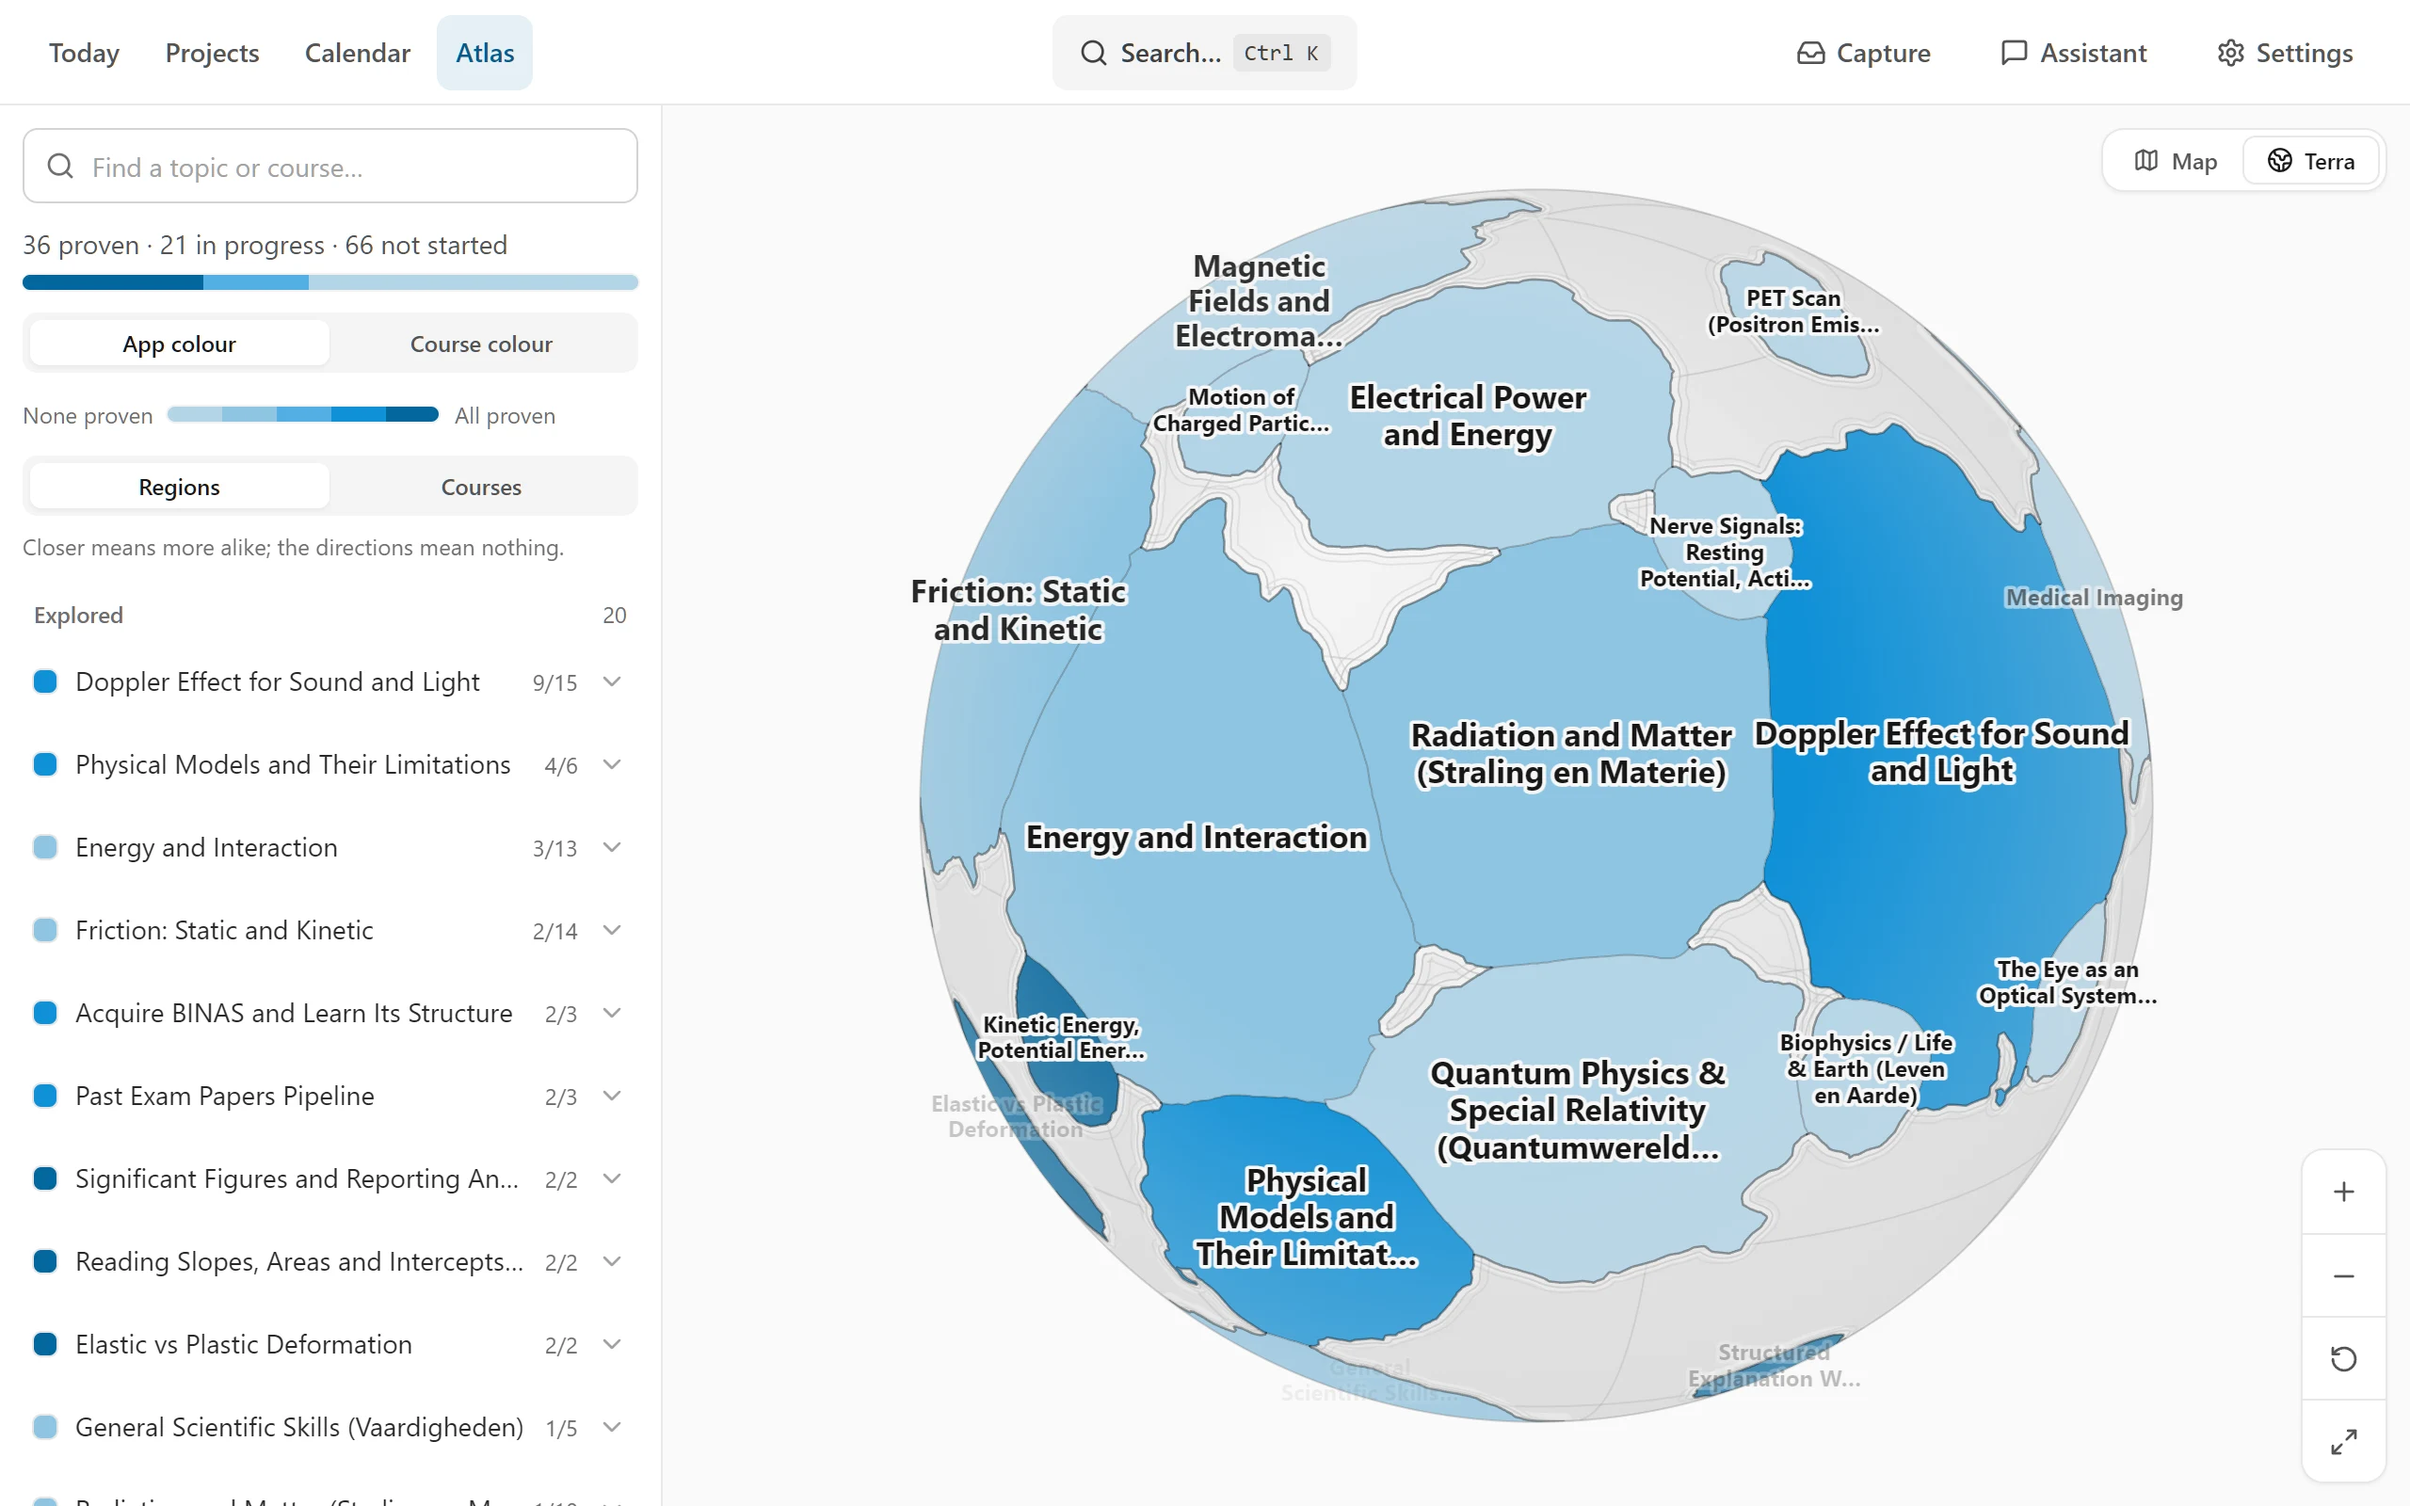
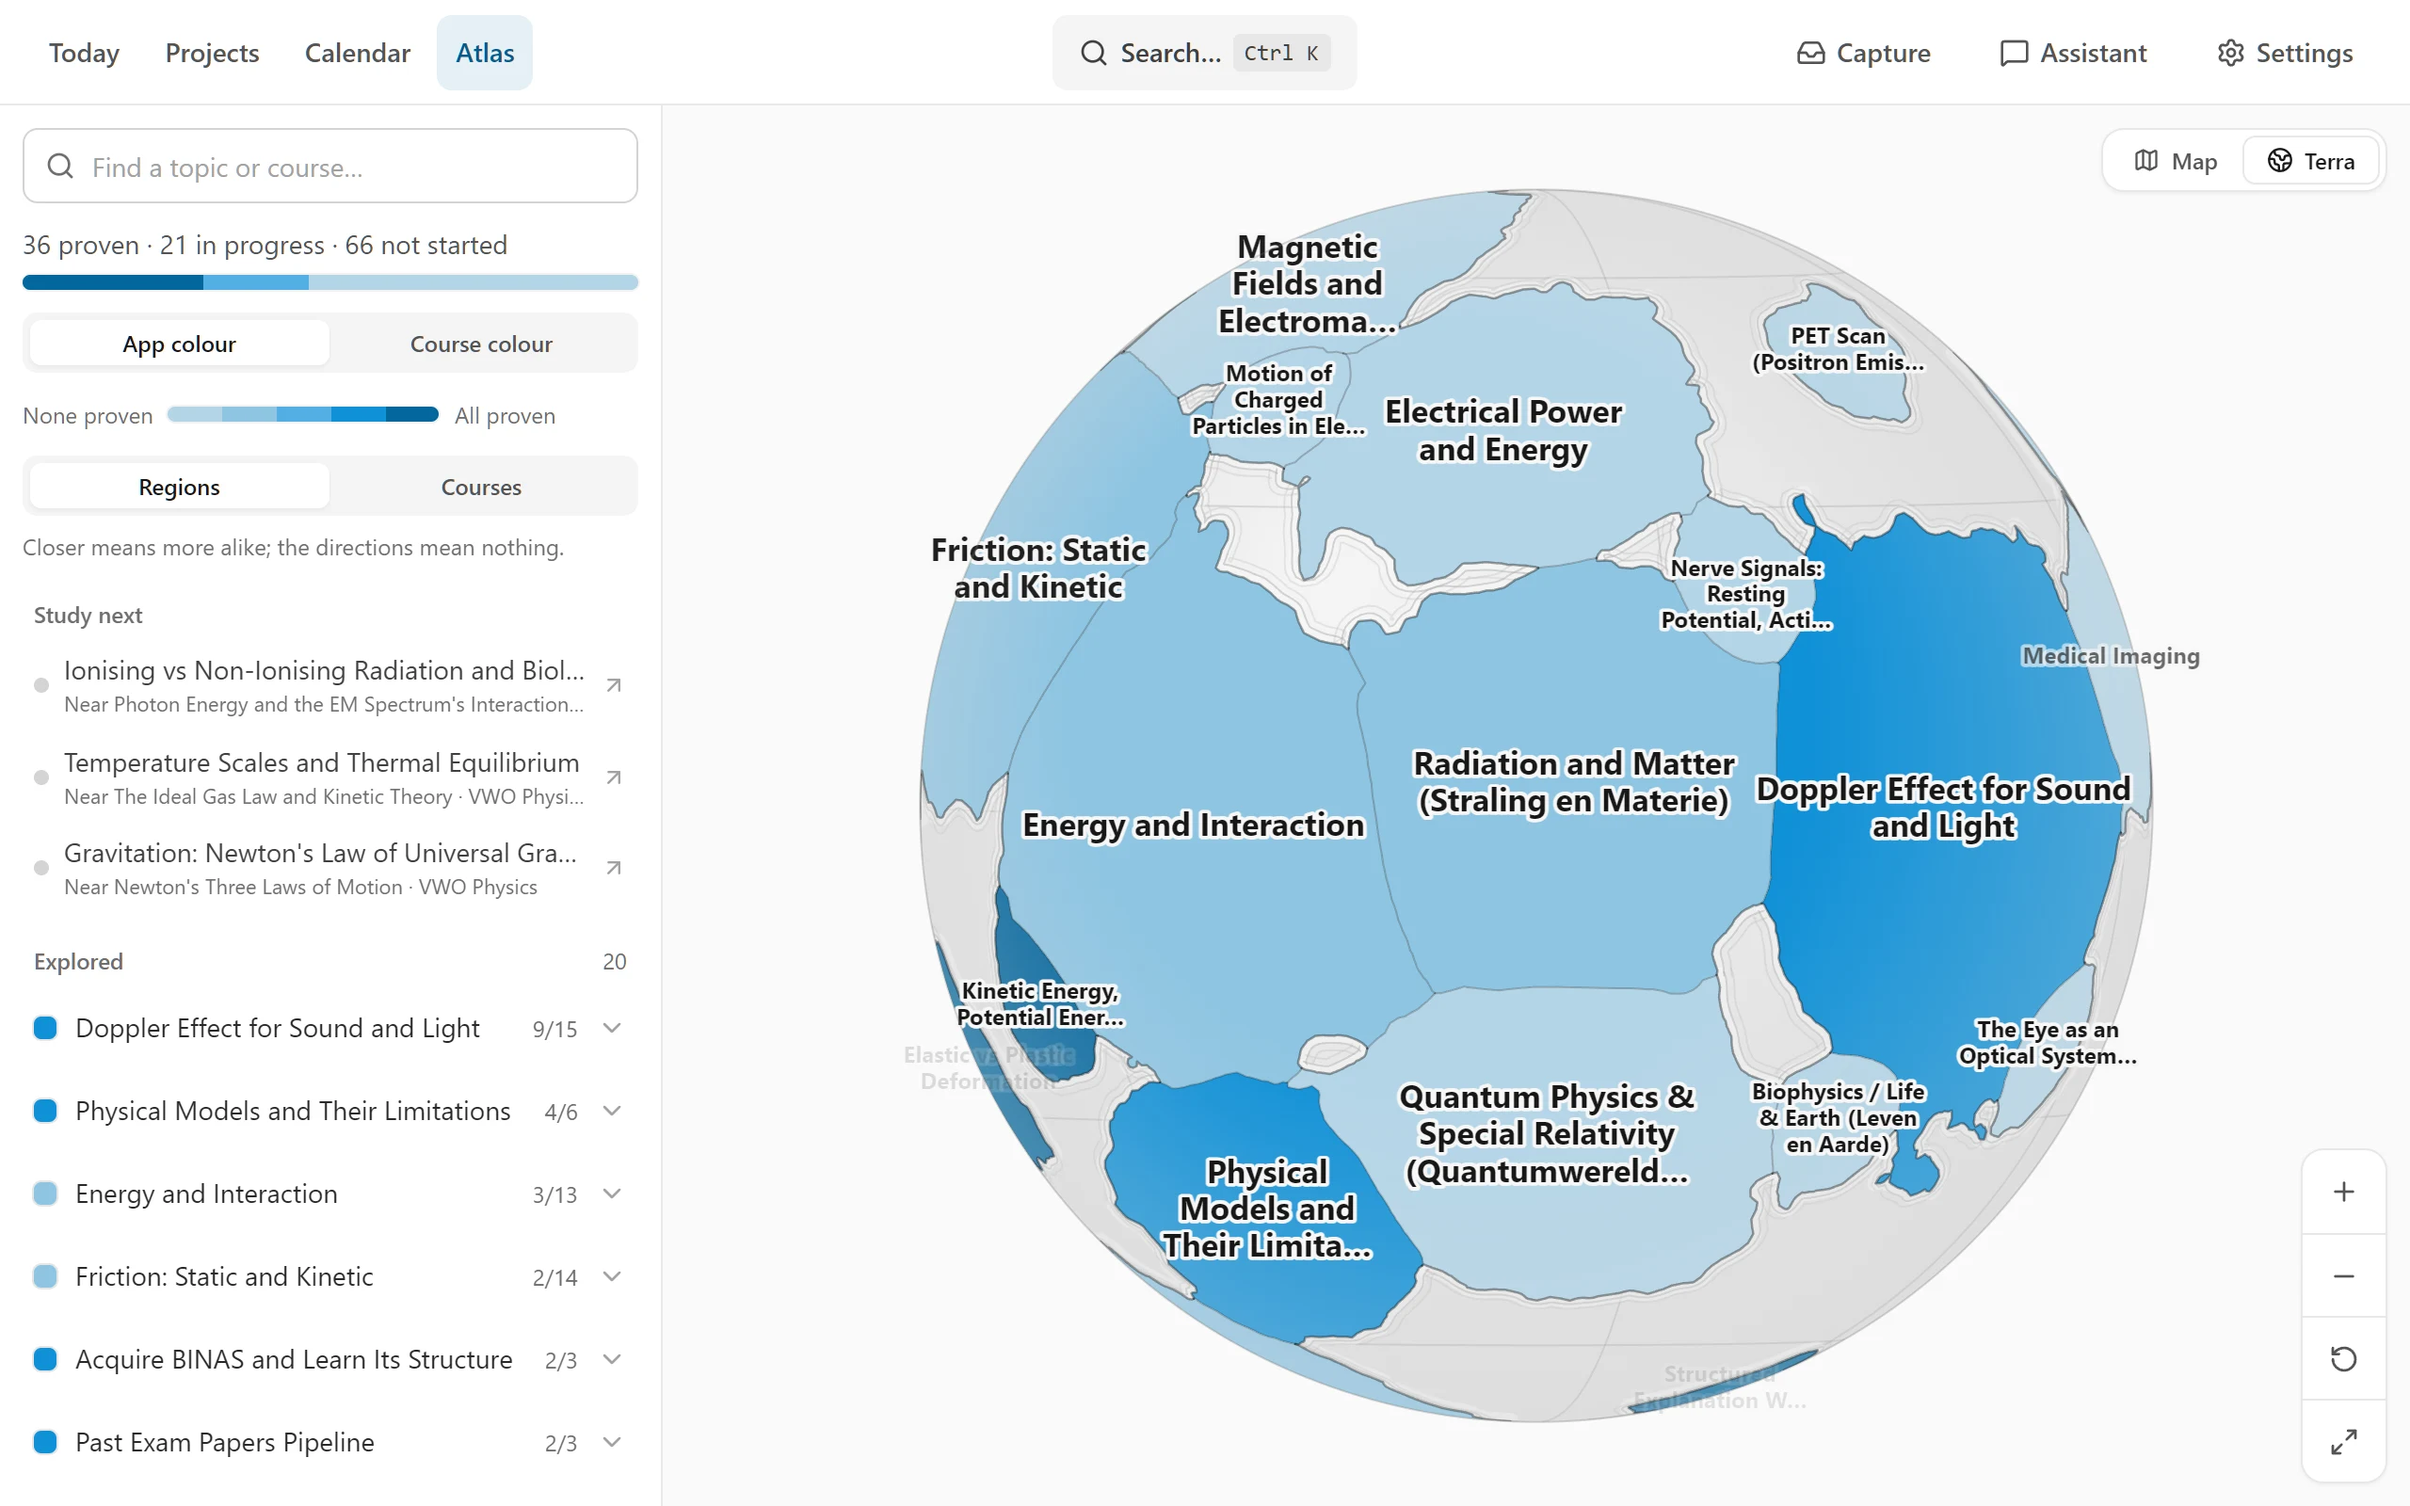
Re-shoot the README atlas picture
The atlas screen now opens its list with Study next, so the picture
and its recorded labels are re-shot from the same library, and the
README says what the rows are.

diff --git a/README.md b/README.md
@@ -80,9 +80,10 @@ Anki decks come in with their media and review history and go back out as `.apkg
 
 Every topic in your library on a map, or on a planet you can turn, placed by what it is about
 rather than which course it belongs to. Pick a course and it replays the order you finished its topics in,
-and can save the replay as a video or a GIF.
+and can save the replay as a video or a GIF. The list beside it opens with up to three topics to study next,
+each close in meaning to one you have finished.
 
-![The course's topics as named territories on a planet, darker where more is proven, beside a list of regions.](docs/screenshots/atlas.webp)
+![The course's topics as named territories on a planet, darker where more is proven, beside a list of regions that opens with three topics to study next.](docs/screenshots/atlas.webp)
 
 ## Why not a chatbot and Anki?
 
